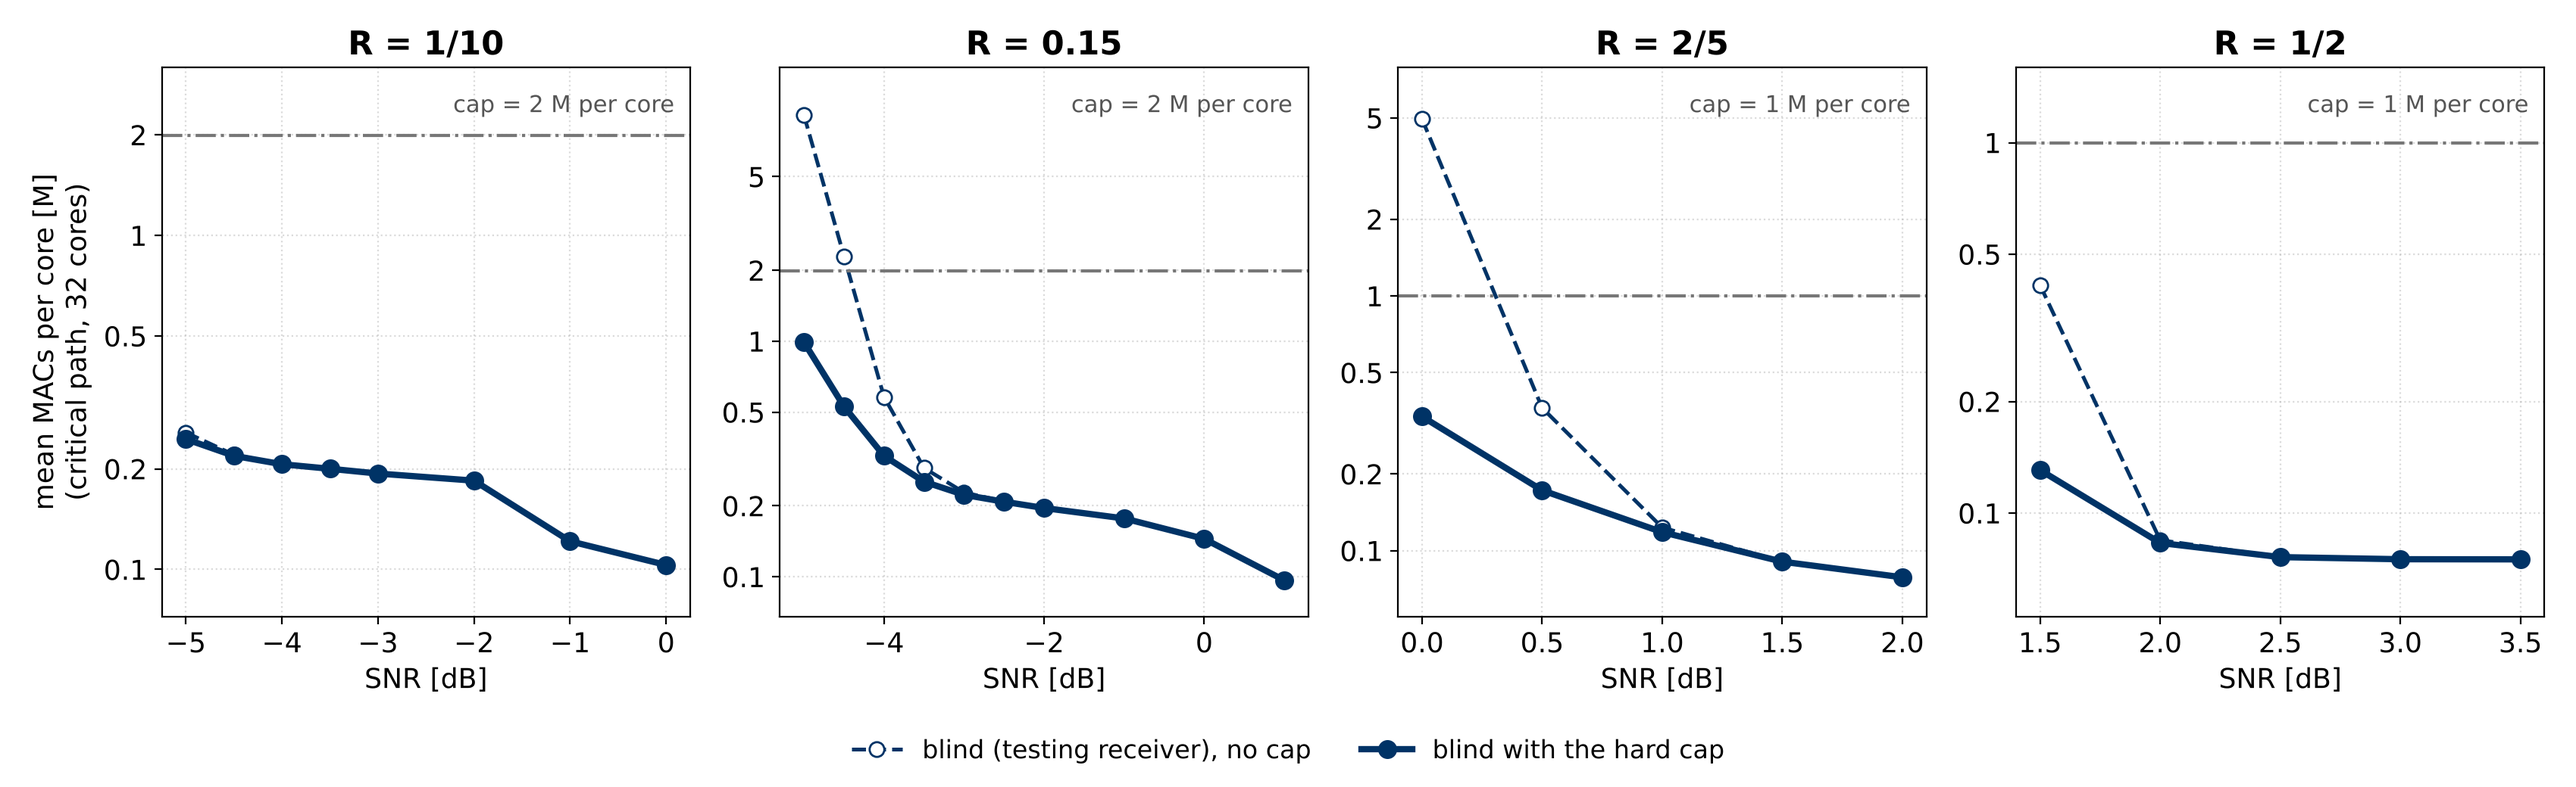
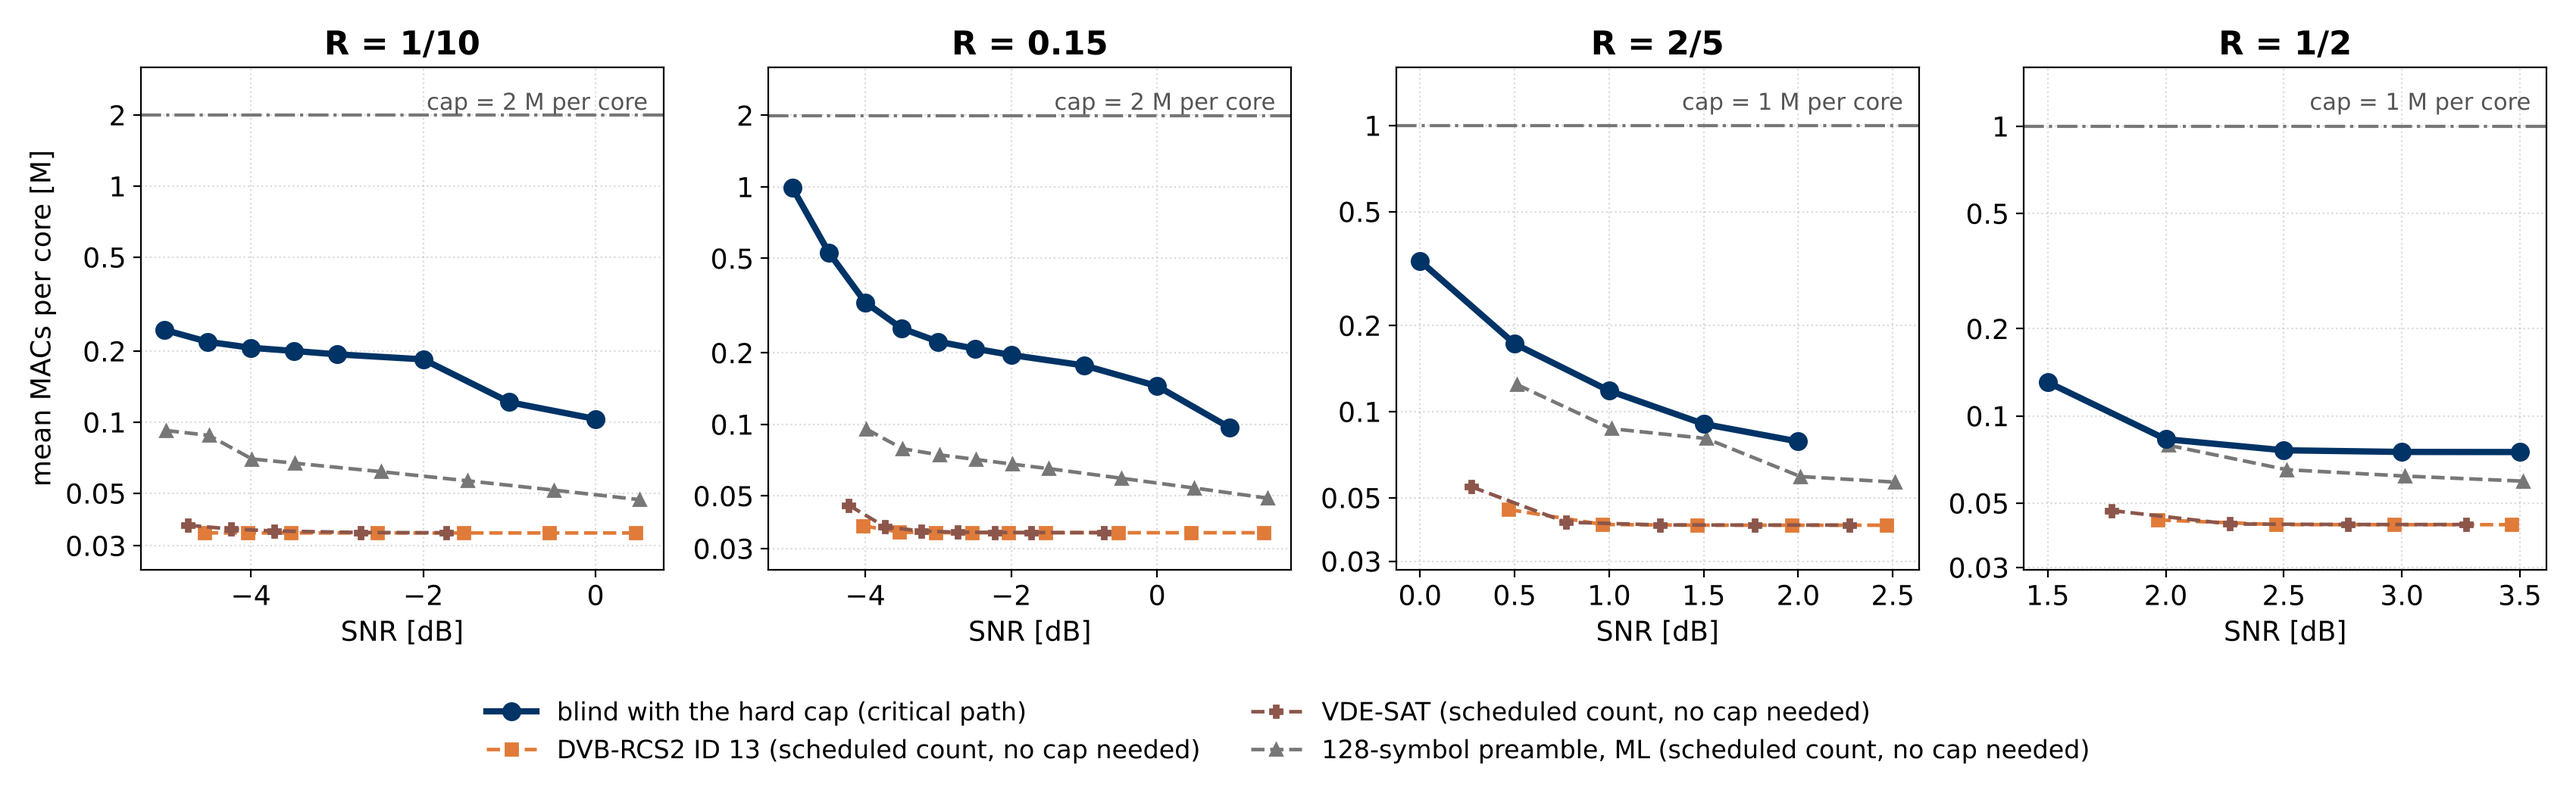
Slides: capped-MACs plot with the pilot receivers, without uncapped blind
Claude-Session: https://claude.ai/code/session_01Uut9iw5SnA6a3eeYDv3vkc

diff --git a/slides_eq/plot_cap_testing.py b/slides_eq/plot_cap_testing.py
@@ -96,30 +96,33 @@ def macs():
         cap = 10 ** (4 + k / 20)
         R = rows(rate)
         x = [s for s, _ in R]
-        m0 = [float((np.array(v["ph"]) * MID).sum() / sum(v["ph"])) / 1e6 for _, v in R]
         m1 = [float((np.array(v["ph"]) * np.minimum(MID, cap)).sum() / sum(v["ph"])) / 1e6 for _, v in R]
-        ax.plot(x, m0, color=NAVY, marker="o", ms=7, lw=1.8, ls="--", mfc="white")
+        ys = list(m1)
+        for src, _, c, m in REF:
+            pts = sorted((float(s), v["core"] / 1e6) for s, v in V[rate]["comp"][src].items() if v.get("core"))
+            pts = [p for p in pts if min(x) - 0.3 <= p[0] <= max(x) + 0.6]
+            ax.plot(*zip(*pts), color=c, marker=m, ms=6, lw=1.7, ls="--")
+            ys += [p[1] for p in pts]
         ax.plot(x, m1, color=NAVY, marker="o", ms=8, lw=3)
         ax.axhline(cap / 1e6, color="#777777", ls="-.", lw=1.5)
         ax.text(0.97, 0.95, f"cap = {capname(rate)} per core", transform=ax.transAxes, ha="right", va="top",
                 color="#555555", fontsize=11)
         ax.set_yscale("log")
-        lo, hi = min(m1) * 0.7, max(max(m0), cap / 1e6) * 1.6
+        lo, hi = min(ys) * 0.7, cap / 1e6 * 1.6
         ax.set_ylim(lo, hi)
-        t = [v for v in (0.05, 0.1, 0.2, 0.5, 1, 2, 5) if lo <= v <= hi]
+        t = [v for v in (0.03, 0.05, 0.1, 0.2, 0.5, 1, 2) if lo <= v <= hi]
         ax.minorticks_off()
         ax.set_yticks(t)
         ax.set_yticklabels([f"{v:g}" for v in t])
         ax.set_title(f"R = {rate}", fontweight="bold")
         ax.set_xlabel("SNR [dB]")
         ax.grid(True, which="major", ls=":", alpha=0.45)
-        print(rate, [(s, round(a, 3), round(b, 3)) for s, a, b in zip(x, m0, m1)])
-    axs[0].set_ylabel("mean MACs per core [M]\n(critical path, 32 cores)")
-    fig.legend([plt.Line2D([], [], color=NAVY, marker="o", ms=7, lw=1.8, ls="--", mfc="white"),
-                plt.Line2D([], [], color=NAVY, marker="o", ms=8, lw=3)],
-               ["blind (testing receiver), no cap", "blind with the hard cap"], loc="lower center", ncol=2,
-               fontsize=12, frameon=False)
-    fig.tight_layout(rect=(0, 0.08, 1, 1))
+    axs[0].set_ylabel("mean MACs per core [M]")
+    fig.legend([plt.Line2D([], [], color=NAVY, marker="o", ms=8, lw=3)] +
+               [plt.Line2D([], [], color=c, marker=m, ms=6, lw=1.7, ls="--") for _, _, c, m in REF],
+               ["blind with the hard cap (critical path)"] + [l + " (scheduled count, no cap needed)" for _, l, _, _ in REF],
+               loc="lower center", ncol=2, fontsize=12, frameon=False)
+    fig.tight_layout(rect=(0, 0.14, 1, 1))
     fig.savefig(os.path.join(HERE, "cap_macs.png"), dpi=200, facecolor="white")
 
 
